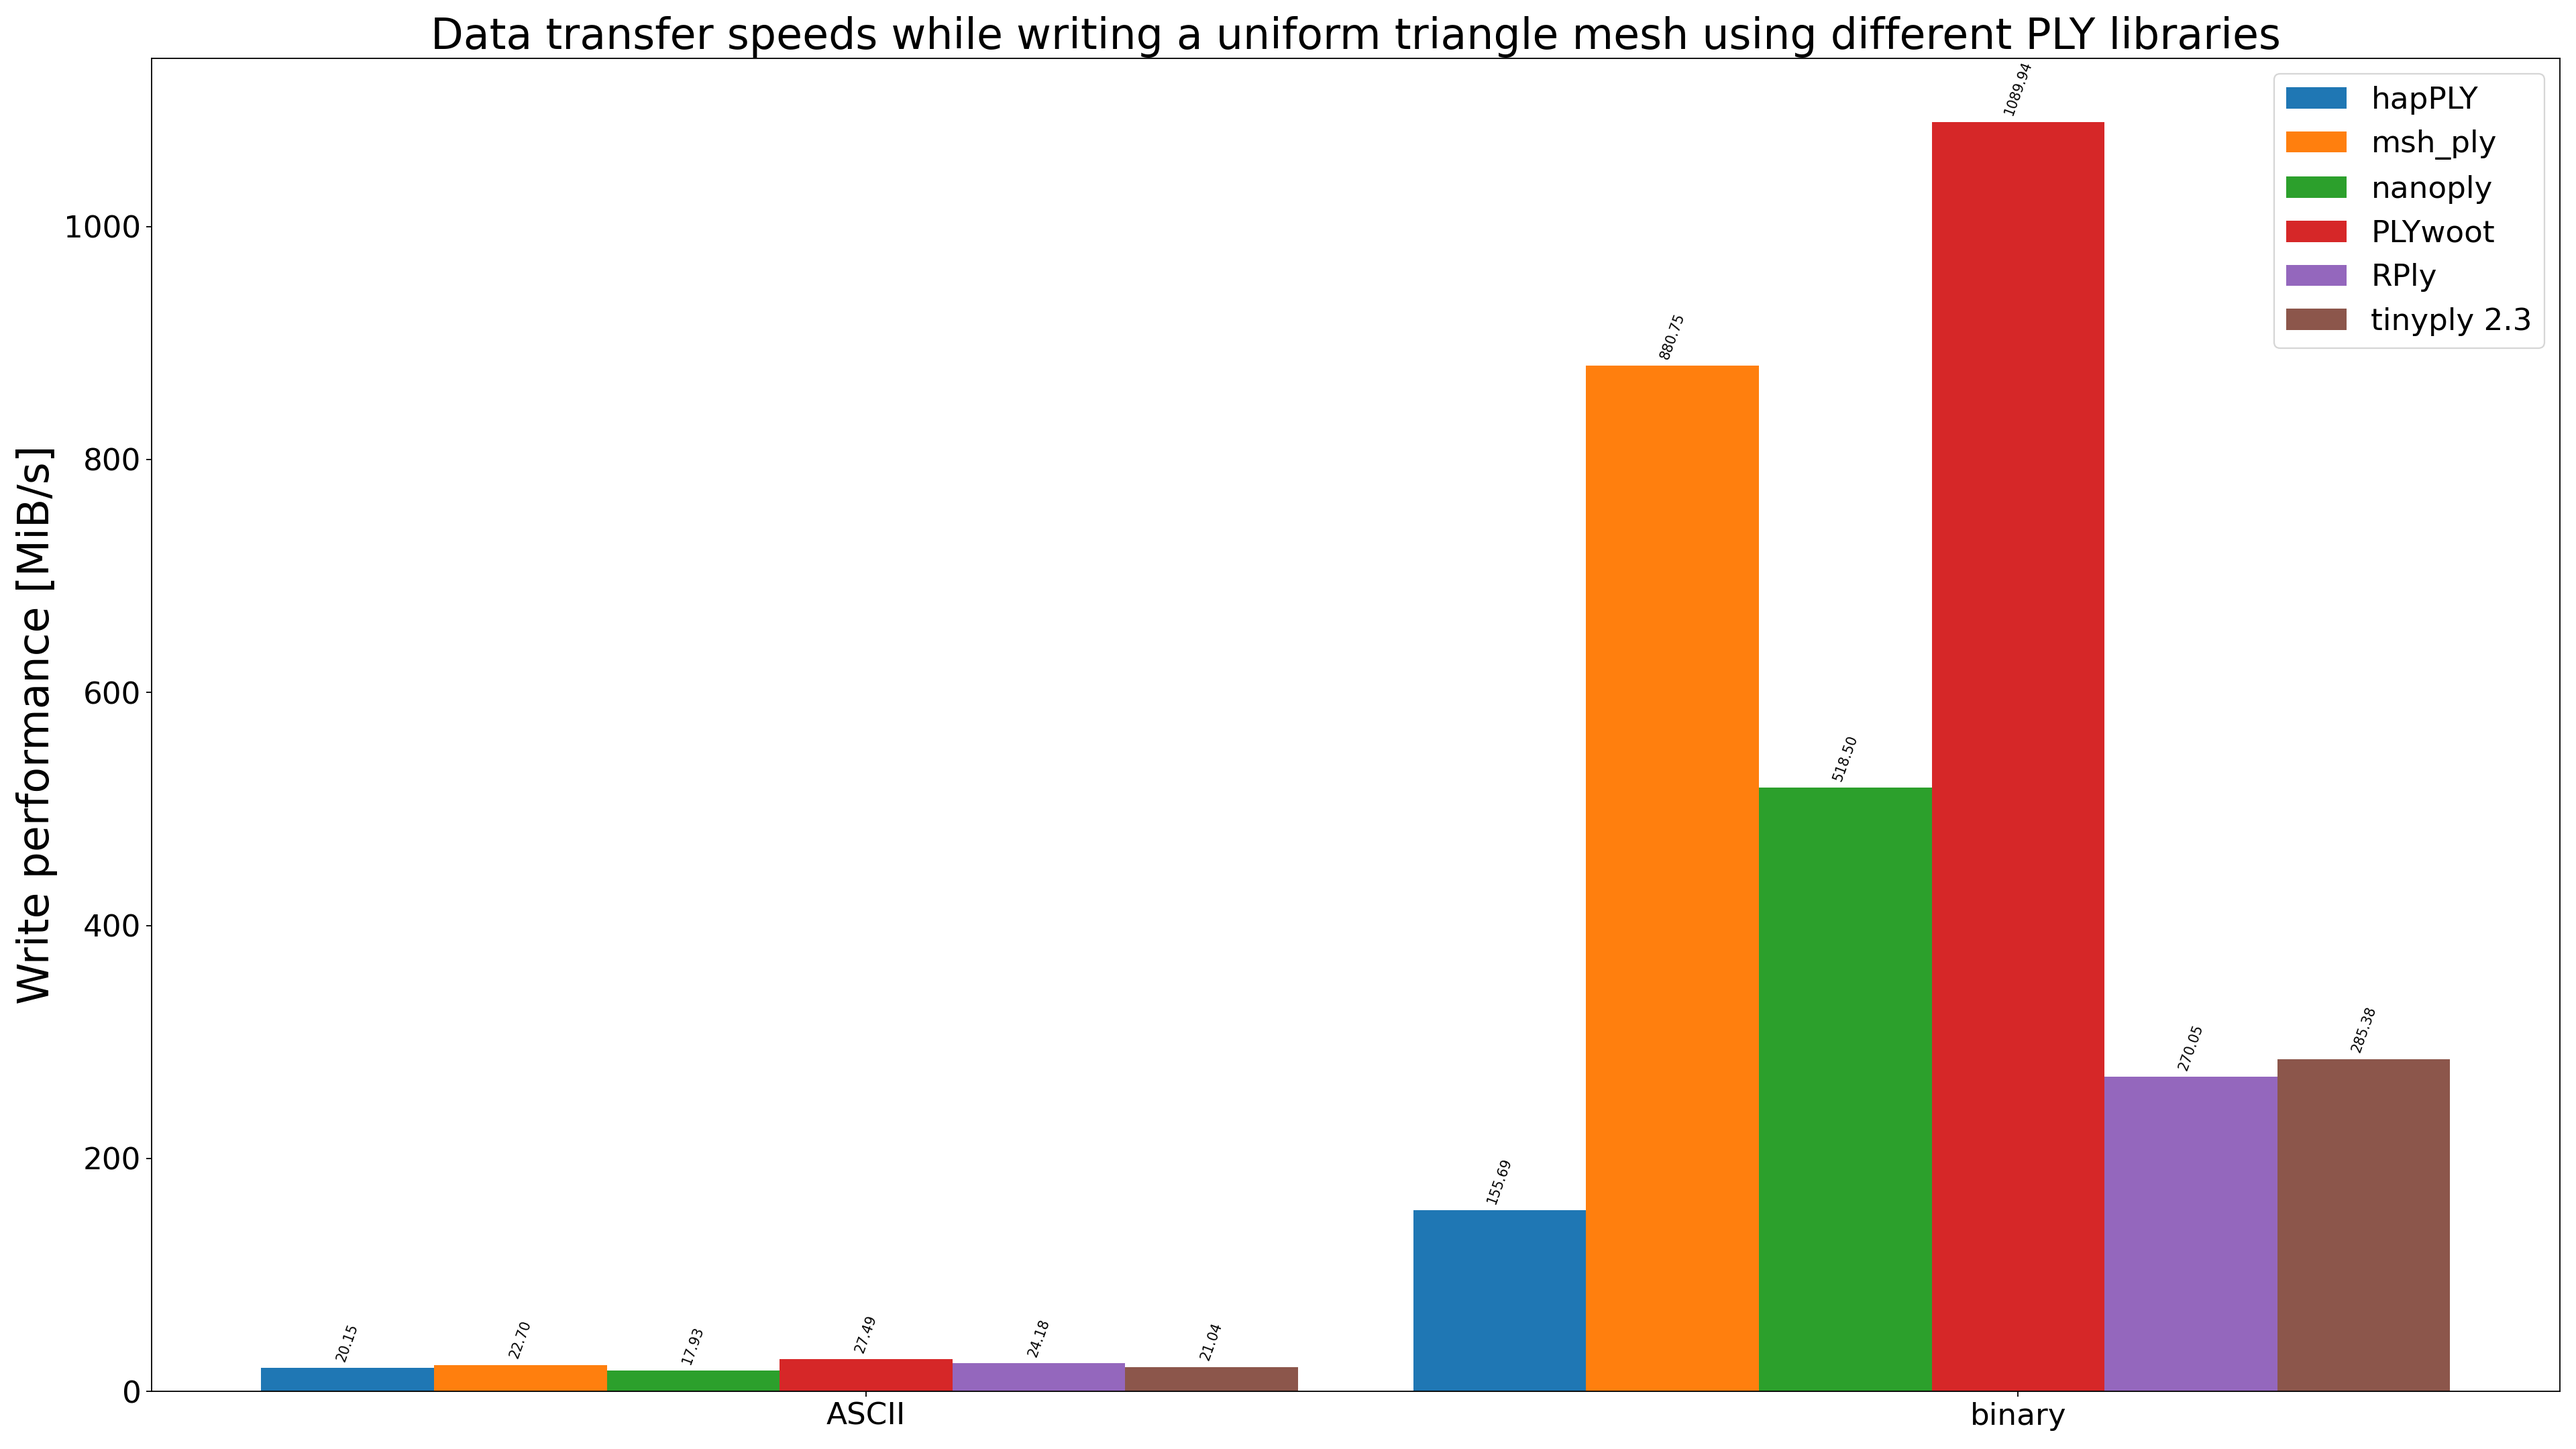
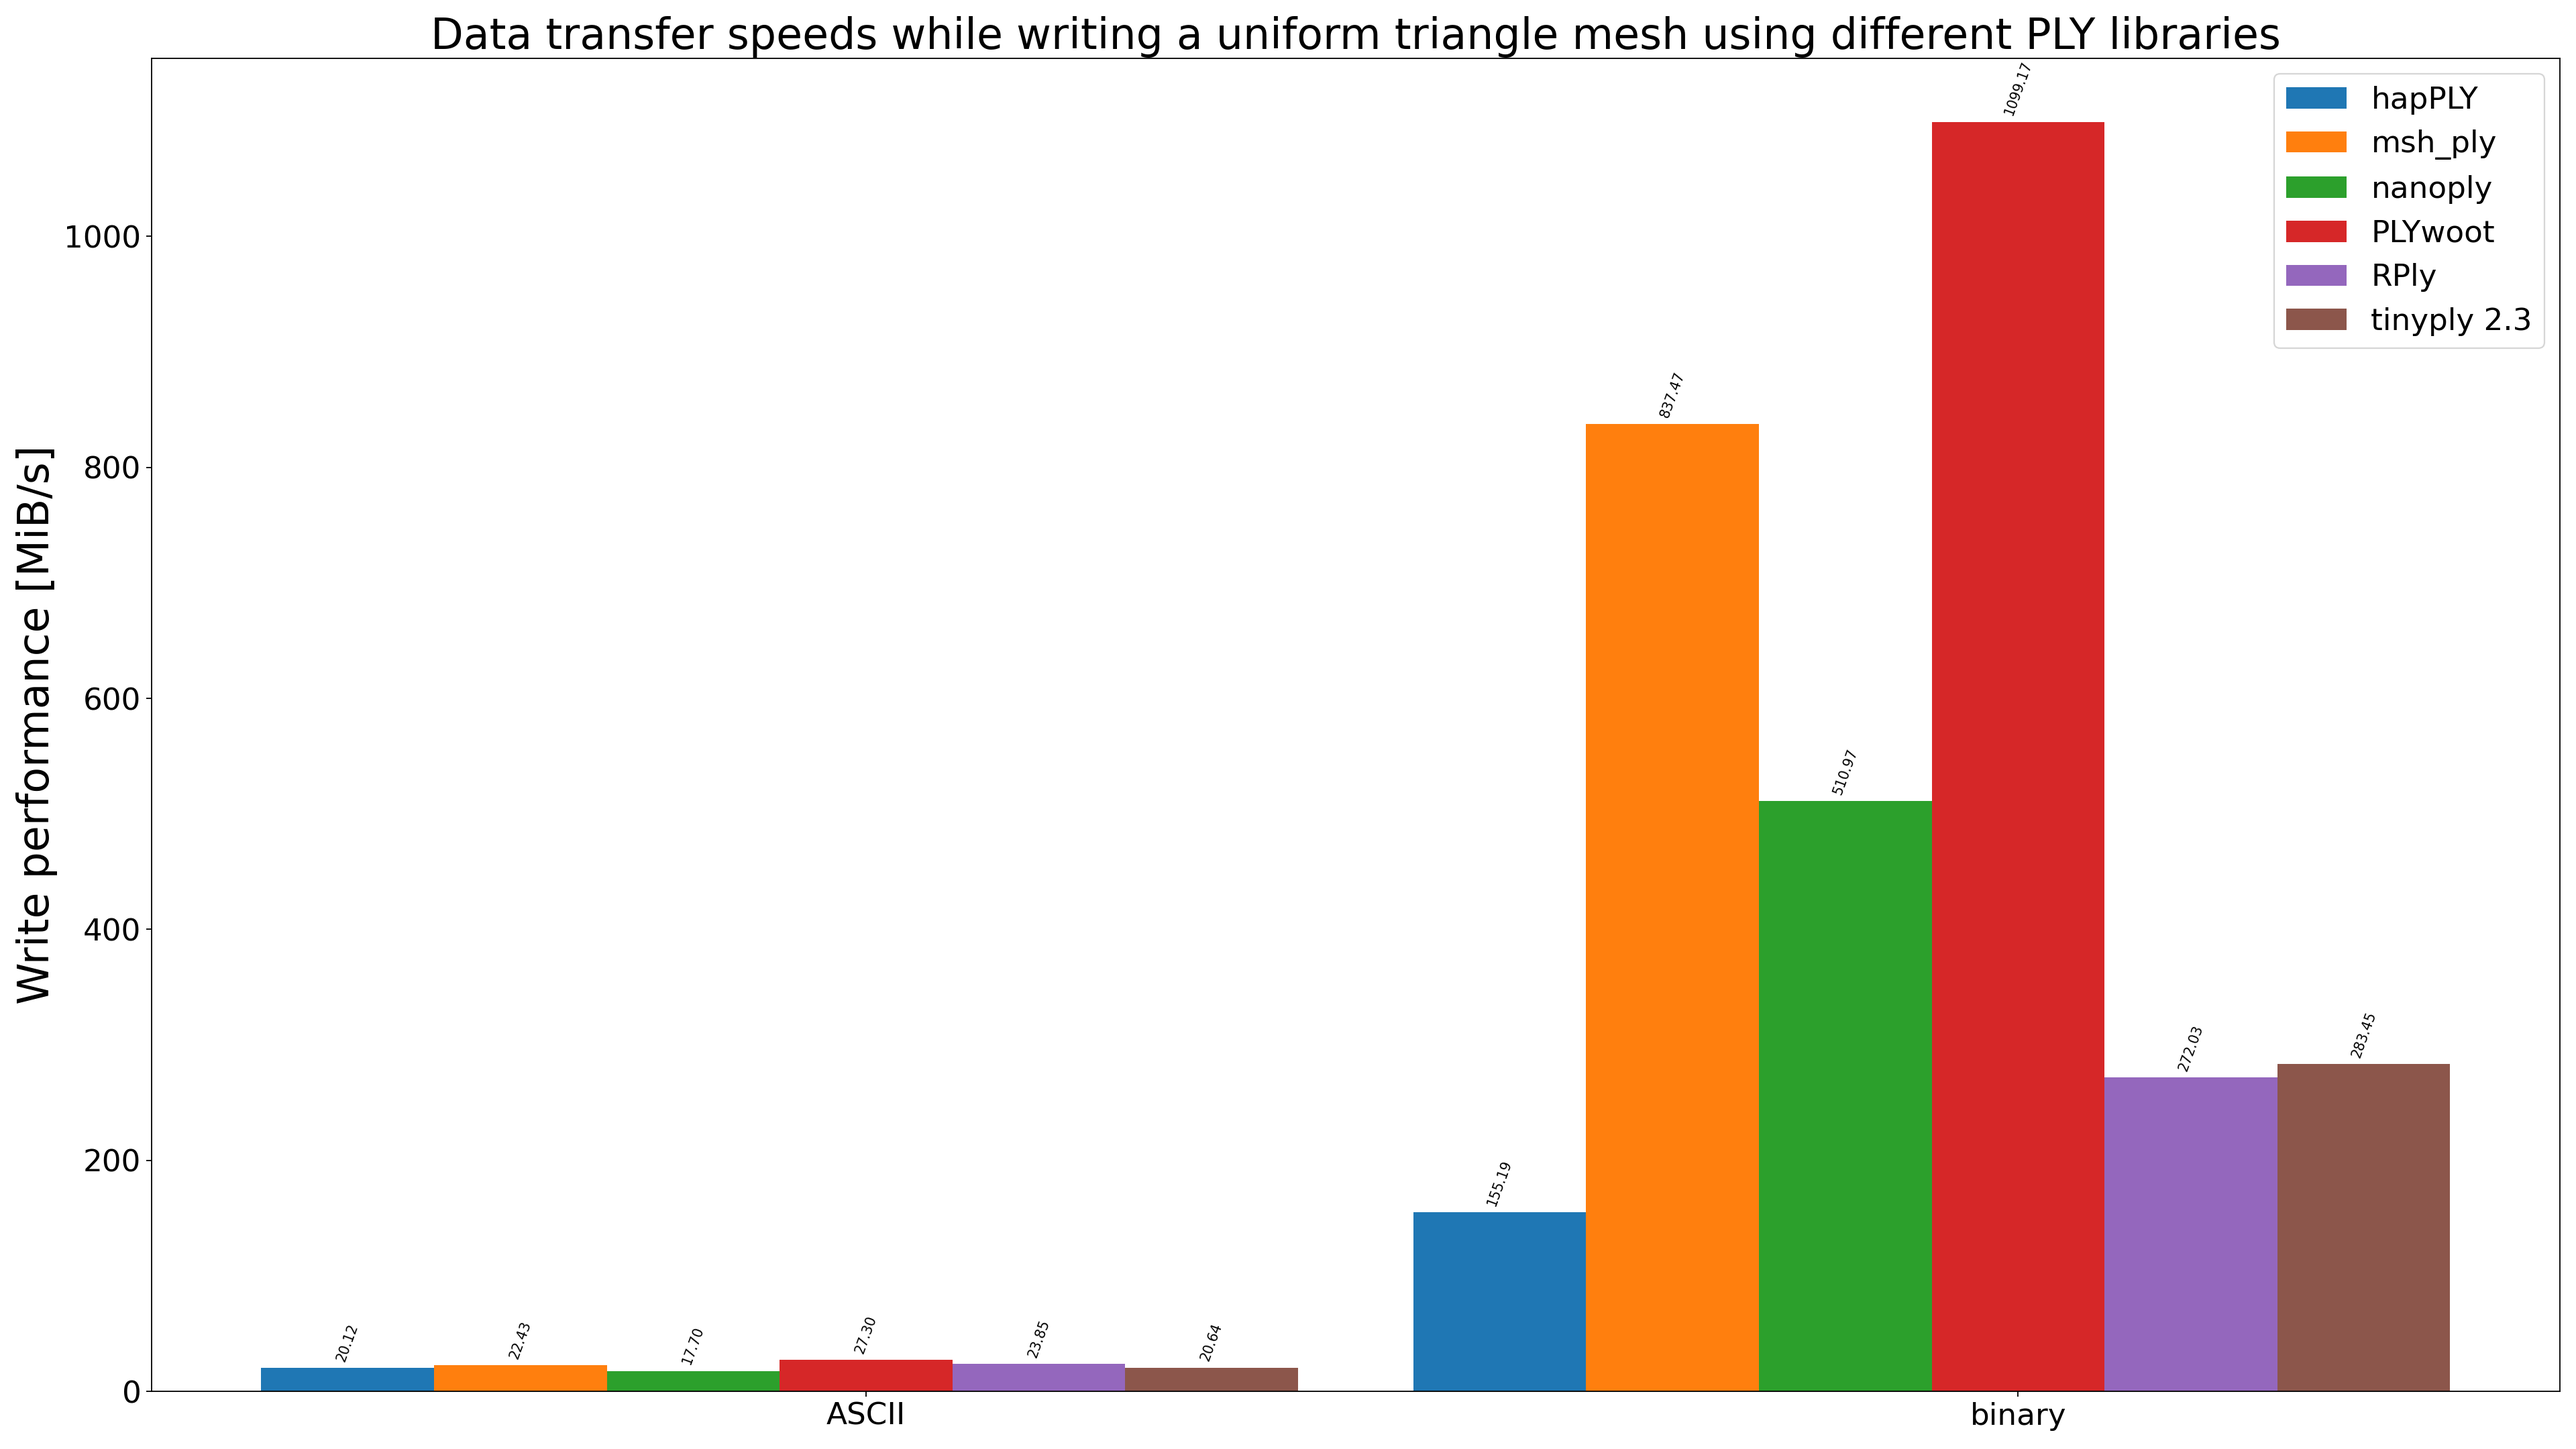
Update results

diff --git a/README.md b/README.md
@@ -47,13 +47,13 @@ The following lists the average relative read performance of each PLY library av
 | # | Library name                                                               | Overall        | ASCII          | Binary big endian | Binary little endian |
 |:-:|:--------------------------------------------------------------------------:|:--------------:|:--------------:|:-----------------:|:--------------------:|
 | 1 | [PLYwoot](https://github.com/ton/plywoot)                                  | *1.00*         | *1.00*         | *1.00*            | *1.00*               |
-| 2 | [miniply](https://github.com/vilya/miniply)                                | 1.54x slower   | 1.60x slower   | 1.92x slower      | 1.10x slower         |
-| 3 | [msh_ply](https://github.com/mhalber/msh)                                  | 3.09x slower   | 6.10x slower   | 1.85x slower      | 1.30x slower         |
-| 4 | [nanoply](https://github.com/cnr-isti-vclab/vcglib/tree/main/wrap/nanoply) | 6.36x slower   | 12.33x slower  | 2.60x slower      | 4.15x slower         |
-| 5 | [tinyply 2.3](https://github.com/ddiakopoulos/tinyply)                     | 6.71x slower   | N/A            | 4.51x slower      | 8.91x slower         |
-| 6 | [plylib](https://github.com/cnr-isti-vclab/vcglib/tree/main/wrap/ply)      | 8.65x slower   | 11.14x slower  | 5.15x slower      | 9.67x slower         |
-| 7 | [RPly](https://w3.impa.br/~diego/software/rply)                            | 9.86x slower   | 7.92x slower   | 8.76x slower      | 12.89x slower        |
-| 8 | [hapPLY](https://github.com/nmwsharp/happly)                               | 17.79x slower  | 28.90x slower  | 9.63x slower      | 14.85x slower        |
+| 2 | [miniply](https://github.com/vilya/miniply)                                | 1.56x slower   | 1.65x slower   | 1.93x slower      | 1.11x slower         |
+| 3 | [msh_ply](https://github.com/mhalber/msh)                                  | 3.07x slower   | 6.08x slower   | 1.83x slower      | 1.30x slower         |
+| 4 | [nanoply](https://github.com/cnr-isti-vclab/vcglib/tree/main/wrap/nanoply) | 6.33x slower   | 12.25x slower  | 2.61x slower      | 4.12x slower         |
+| 5 | [tinyply 2.3](https://github.com/ddiakopoulos/tinyply)                     | 6.70x slower   | N/A            | 4.51x slower      | 8.89x slower         |
+| 6 | [plylib](https://github.com/cnr-isti-vclab/vcglib/tree/main/wrap/ply)      | 8.54x slower   | 10.99x slower  | 5.00x slower      | 9.62x slower         |
+| 7 | [RPly](https://w3.impa.br/~diego/software/rply)                            | 9.86x slower   | 7.78x slower   | 8.60x slower      | 13.21x slower        |
+| 8 | [hapPLY](https://github.com/nmwsharp/happly)                               | 17.87x slower  | 29.09x slower  | 9.67x slower      | 14.86x slower        |
 
 
 The following graph plots average CPU time per model per PLY library (lower numbers are better):
@@ -71,11 +71,11 @@ The following lists the average relative write performance of each PLY library a
 | # | Library name                                                               | Overall        | ASCII          | Binary         |
 |:-:|:--------------------------------------------------------------------------:|:--------------:|:--------------:|:--------------:|
 | 1 | [PLYwoot](https://github.com/ton/plywoot)                                  | *1.00*         | *1.00*         | *1.00*         |
-| 2 | [msh_ply](https://github.com/mhalber/msh)                                  | 1.22x slower   | 1.21x slower   | 1.24x slower   |
-| 3 | [nanoply](https://github.com/cnr-isti-vclab/vcglib/tree/main/wrap/nanoply) | 1.82x slower   | 1.53x slower   | 2.10x slower   |
-| 4 | [tinyply 2.3](https://github.com/ddiakopoulos/tinyply)                     | 2.56x slower   | 1.31x slower   | 3.82x slower   |
-| 5 | [RPly](https://w3.impa.br/~diego/software/rply)                            | 2.59x slower   | 1.14x slower   | 4.04x slower   |
-| 6 | [hapPLY](https://github.com/nmwsharp/happly)                               | 4.18x slower   | 1.36x slower   | 7.00x slower   |
+| 2 | [msh_ply](https://github.com/mhalber/msh)                                  | 1.26x slower   | 1.22x slower   | 1.31x slower   |
+| 3 | [nanoply](https://github.com/cnr-isti-vclab/vcglib/tree/main/wrap/nanoply) | 1.85x slower   | 1.54x slower   | 2.15x slower   |
+| 4 | [RPly](https://w3.impa.br/~diego/software/rply)                            | 2.59x slower   | 1.14x slower   | 4.04x slower   |
+| 5 | [tinyply 2.3](https://github.com/ddiakopoulos/tinyply)                     | 2.60x slower   | 1.32x slower   | 3.88x slower   |
+| 6 | [hapPLY](https://github.com/nmwsharp/happly)                               | 4.22x slower   | 1.36x slower   | 7.08x slower   |
 
 
 The following graph plots average CPU time for writing a fixed triangle mesh with 100.000 semi-random triangles per PLY library (lower numbers are better):
